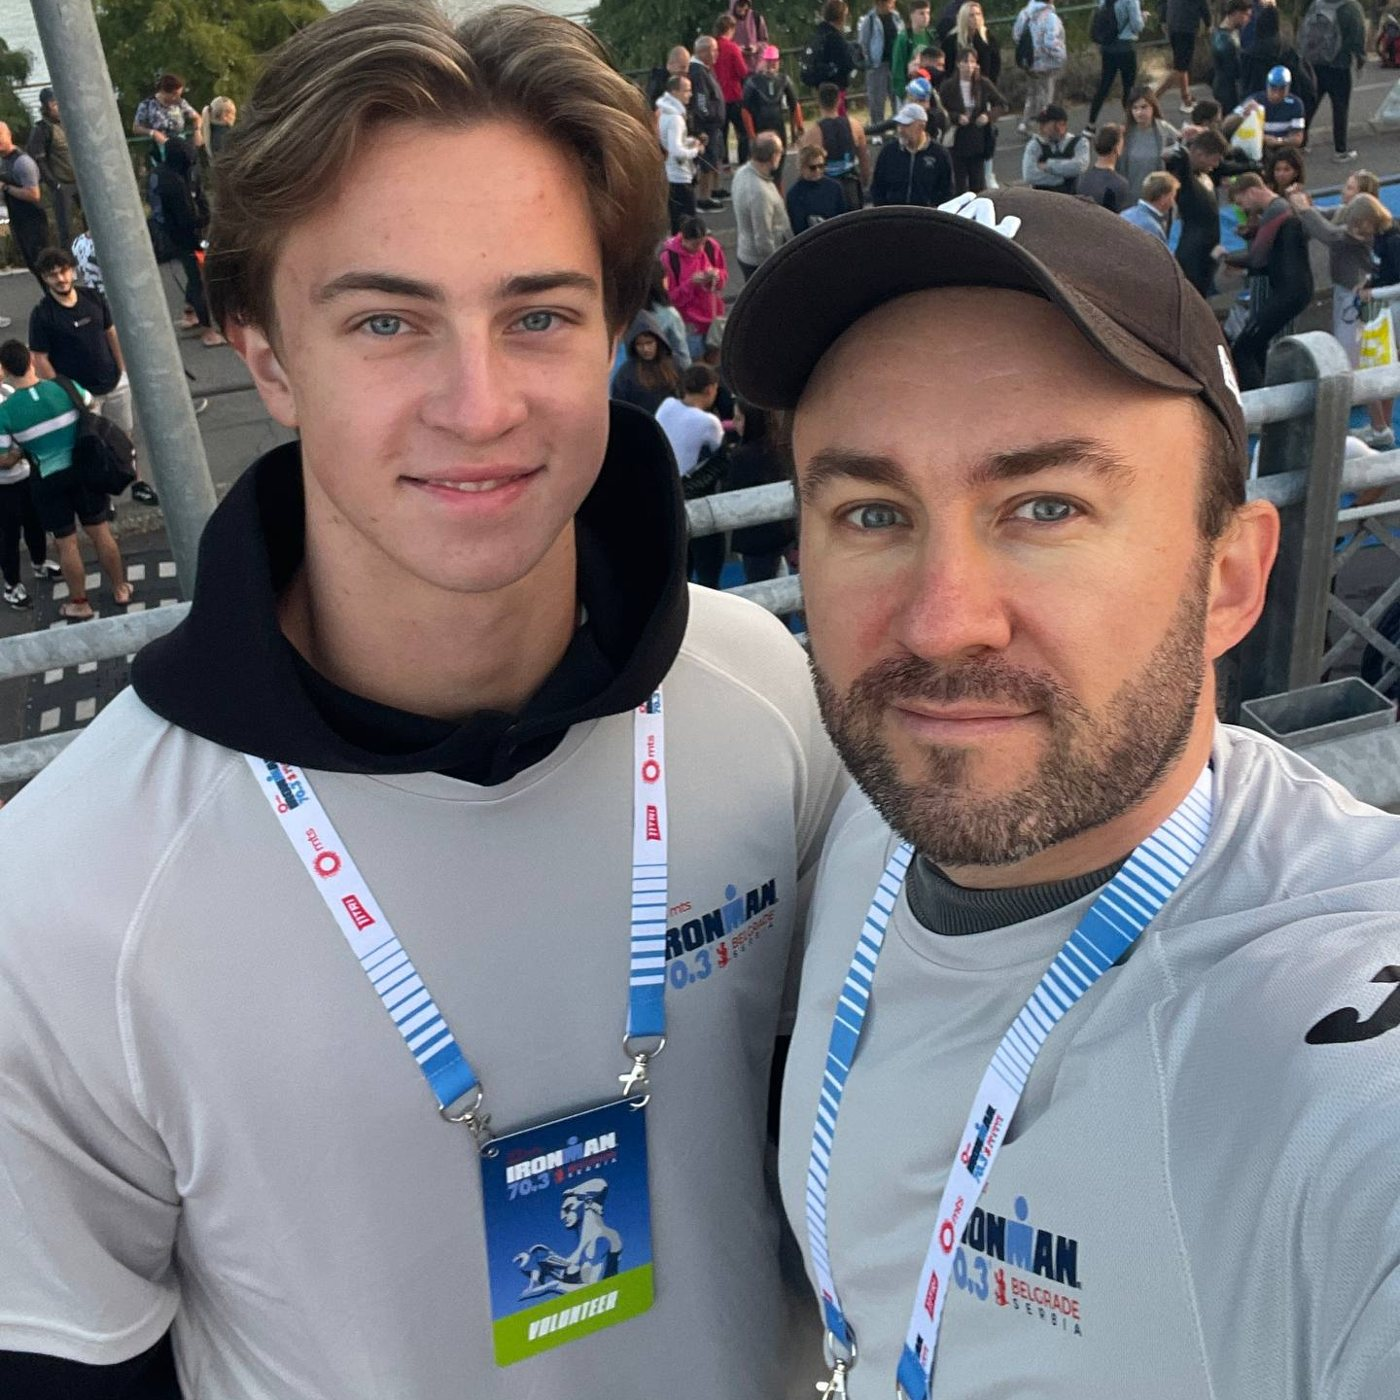
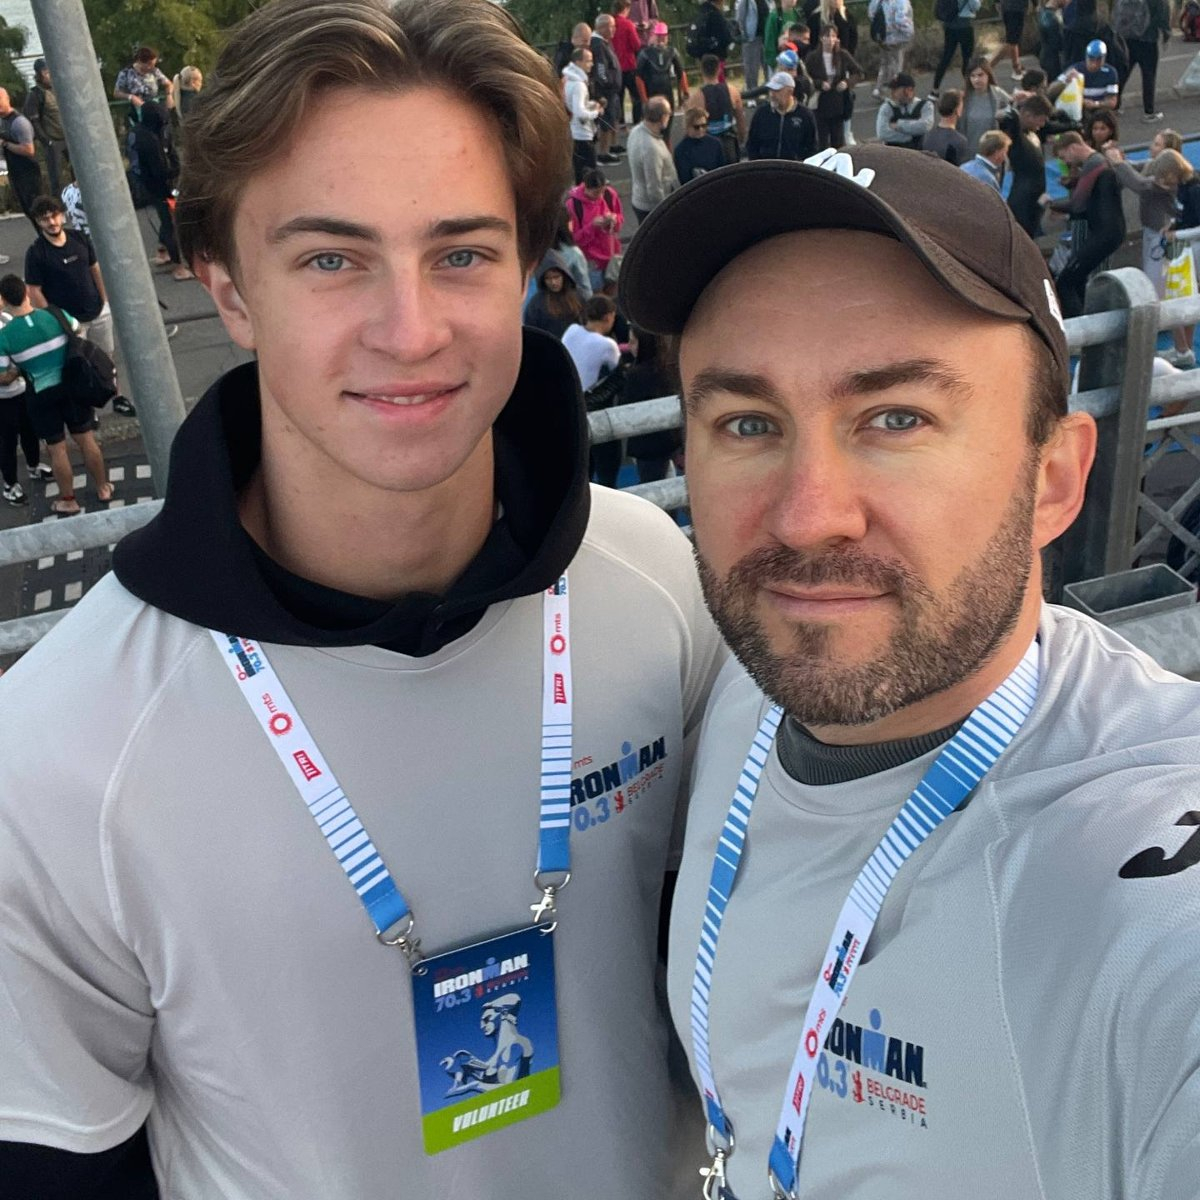
Ironman and Business Run photos: taller square crops so the volunteer badge and medals show
Claude-Session: https://claude.ai/code/session_01TBT4ZHTUuHF7TEm8Atjnk6

diff --git a/styles.css b/styles.css
@@ -525,3 +525,5 @@
     .dance-row .dance-photo img{position:absolute; inset:0; object-position:50% 25%;}
   }
   .dance-row .cred .link-btn{margin-top:auto; cursor:pointer;} .dance-row .cred .c-desc{margin-bottom:12px;}
+  .life-photos .card-photo{aspect-ratio:1/1;}
+  .life-photos .card-photo img[src*="travel-2"]{object-position:72% 50%;}
